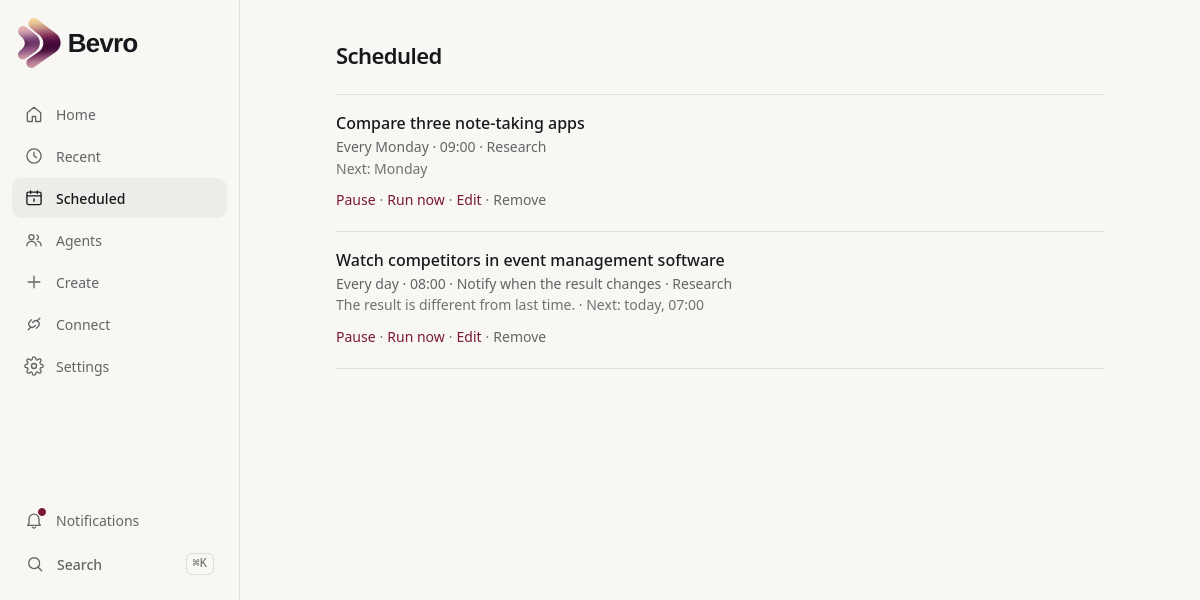
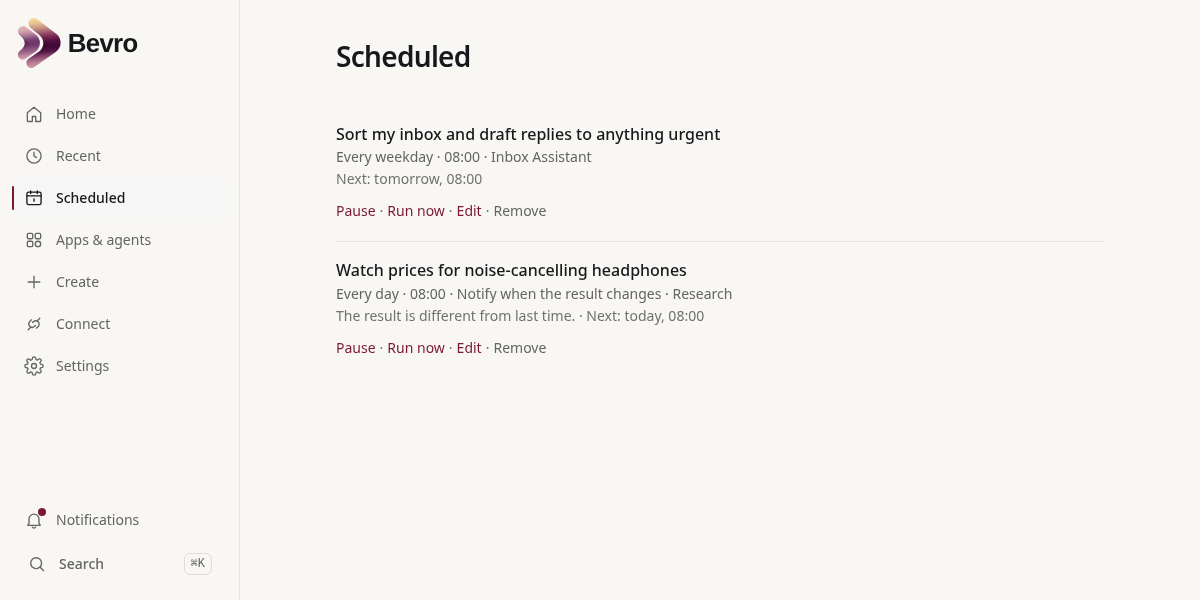
docs: say what Bevro is for up front, and show everyday agents
The README now opens with the problem (scattered agents, hosted platforms
that keep your data) and what Bevro does about it, with an honest note on
what "stays yours" does and does not cover. Screenshots retaken with
general stand-in agents instead of the event-allocation example.

Claude-Session: https://claude.ai/code/session_01Su7qnKjrGkZs2WJozEkGV3

diff --git a/web/index.html b/web/index.html
@@ -4,7 +4,7 @@
     <meta charset="UTF-8" />
     <meta name="viewport" content="width=device-width, initial-scale=1.0, viewport-fit=cover" />
     <title>Bevro</title>
-    <meta name="description" content="All your agents and apps in one place." />
+    <meta name="description" content="One place for all your AI agents and apps, on your own machine." />
     <link rel="icon" href="/icon/favicon.svg" type="image/svg+xml" />
     <link rel="icon" href="/icon/favicon-dark.svg" type="image/svg+xml" media="(prefers-color-scheme: dark)" />
     <link rel="icon" href="/icon/favicon.ico" sizes="16x16 32x32 48x48" />

diff --git a/README.md b/README.md
@@ -11,58 +11,66 @@
 
 # Bevro
 
-**All your agents and apps in one place.**
+**One place for all your AI agents and apps — on your own machine.**
 
-Bevro is a personal hub for the agents and apps you build and use. Tell it
-what you want to accomplish, and it helps you find the right tool, works with
-it directly when possible, or takes you to the right interface when it isn't.
+Bevro is a self-hosted hub. Connect the agents and apps you already use, then
+ask for what you need in plain words. Bevro picks the right one, hands the
+work over and keeps the result — in a database on your own hardware.
 
-An app belongs in Bevro because you use it, not because Bevro can drive it:
-a web app with no interface for programs is listed, described and opened
-like any other ([docs/HUB.md](docs/HUB.md)).
+## The problem
+
+- **Agents are scattered.** A research agent here, a coding agent there, a
+  script in a folder, a web app in a browser tab. Each has its own screen, its
+  own history and its own place where results end up. Few tools bring them
+  together.
+- **The platforms that do bring them together keep your data.** Hosted
+  assistants such as ChatGPT or Claude can connect to tools and agents, but
+  then your requests, results and connected accounts live on their servers,
+  under their terms.
+- **Agent frameworks help you build one agent,** not live with twenty. They
+  do not help you find the right one, run it, repeat it and keep track of
+  what it did.
+
+## What Bevro does
+
+| | |
+|---|---|
+| **Brings them together** | Type a web address, a folder, a command or an MCP server (a common way for AI tools to offer their functions to other programs). Bevro works out what it is and connects it, without changing it. Apps it cannot drive are listed too, with a link to open them. |
+| **Finds the right one** | Ask in plain words. Bevro chooses by what each agent says it can do — or tells you which app to open. |
+| **Keeps one record** | Every request becomes a task with an honest status, a short outcome and the files behind it, whichever agent did the work. |
+| **Repeats and watches** | "Every Monday…" or "check daily, tell me only when something changes" — without touching the agent. |
+| **Stays yours** | Runs with Docker on your computer or server. Tasks, results and credentials sit in your own PostgreSQL database. By default Bevro itself sends nothing to any outside service. |
 
 ```
-You
- ↓
-Bevro Task        what was asked, and where it has got to
- ↓
-Provider          an agent, an app, a workflow, a coding tool, a person…
- ↓
-Runtime           how this installation reaches that provider
- ↓
-Result            a summary you can read, and the artifacts behind it
-```
-
-In practice:
-
-```
-You:        "Allocate participants for the spring conference"
+You:        "Free up Friday afternoon"
                      ↓
-Bevro:      creates a Task, picks a provider, watches it work
+Bevro:      creates a Task, picks the calendar agent, watches it work
                      ↓
-Provider:   the events app already running in your organisation
+Provider:   the calendar assistant you already use
                      ↓
-Result:     "Done. 148 participants allocated. 7 need review."   Review in the events app →
+Result:     "Done. 3 meetings moved. 1 needs your reply."   Open in Calendar →
 ```
 
-## Why Bevro
+### What "stays yours" does and does not mean
 
-**It is not an agent framework.** Bevro does not run agent loops, choose
-models or hold prompts. It is the workspace *above* the things that do work:
-it remembers what was asked, hands it on, keeps a faithful record of what came
-back, and stays out of the way.
+- **Bevro's own record** — every request, result, schedule and stored key —
+  never leaves your machine.
+- **A connected agent behaves as it always did.** If it is a cloud service,
+  your request still goes to that service. Bevro changes where the record of
+  your work lives, not where each agent sends its data.
+- **The optional routing model** (see [Routing](#routing)) sends the text of
+  each request to the model service you choose — or to one you host yourself.
+- **There is no login yet.** Bevro listens only on the machine it runs on. On
+  a shared server, put it behind something that asks for a password first;
+  see [SECURITY.md](SECURITY.md).
 
-**Bevro adapts to providers; providers do not adapt to Bevro.** Type the
-address of a service, the folder of an agent you already have, an MCP server
-or a command. Bevro works out how to talk to it and what it can do. Nothing is
-modified, and no provider has to implement a Bevro protocol.
+### What Bevro is not
 
-**One record of the work.** Every request is a Task with an honest state, one
-concise outcome and the artifacts behind it — whichever provider did it, and
-however many ways Bevro had to try.
-
-**Yours.** It runs on your machine with Docker, stores everything in your own
-PostgreSQL, and in its default configuration calls nothing outside it.
+- **Not an agent framework.** It runs no agent loops, chooses no models and
+  holds no prompts. It sits above the things that do the work.
+- **Not a new protocol.** Agents and apps do not have to change to be used;
+  Bevro adapts to them.
+- **Not a sandbox.** Local agents run as you, in folders you approve.
 
 ## Screenshots
 
@@ -70,7 +78,7 @@ PostgreSQL, and in its default configuration calls nothing outside it.
 |---|---|
 | ![Home](docs/screenshots/home-light.png) | ![A task result with a deep link](docs/screenshots/task-result.png) |
 
-| Recent | Agents |
+| Recent | Apps & agents |
 |---|---|
 | ![Recent](docs/screenshots/recent.png) | ![Agents](docs/screenshots/agents.png) |
 
@@ -89,9 +97,9 @@ A coding agent, working in a directory you approved (optional — see
 
 <p align="center"><img src="docs/screenshots/home-dark.png" alt="Home, dark theme" width="70%"></p>
 
-<sub>The screenshots show a workspace with the example providers turned on
-(`BEVRO_DEMO_MODE=true`) so there is something to look at. A new installation
-starts empty.</sub>
+<sub>The screenshots show a workspace with a few stand-in agents connected
+(inbox, writing, meeting notes, research, travel, calendar), returning sample
+results so there is something to look at. A new installation starts empty.</sub>
 
 ## Core concepts
 
